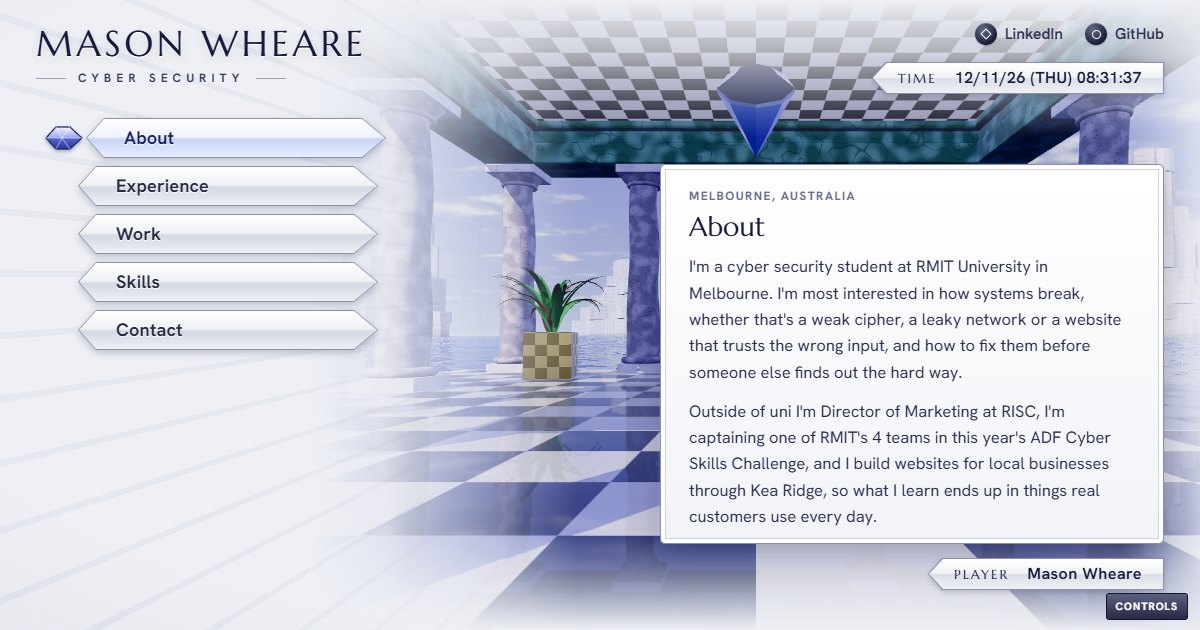
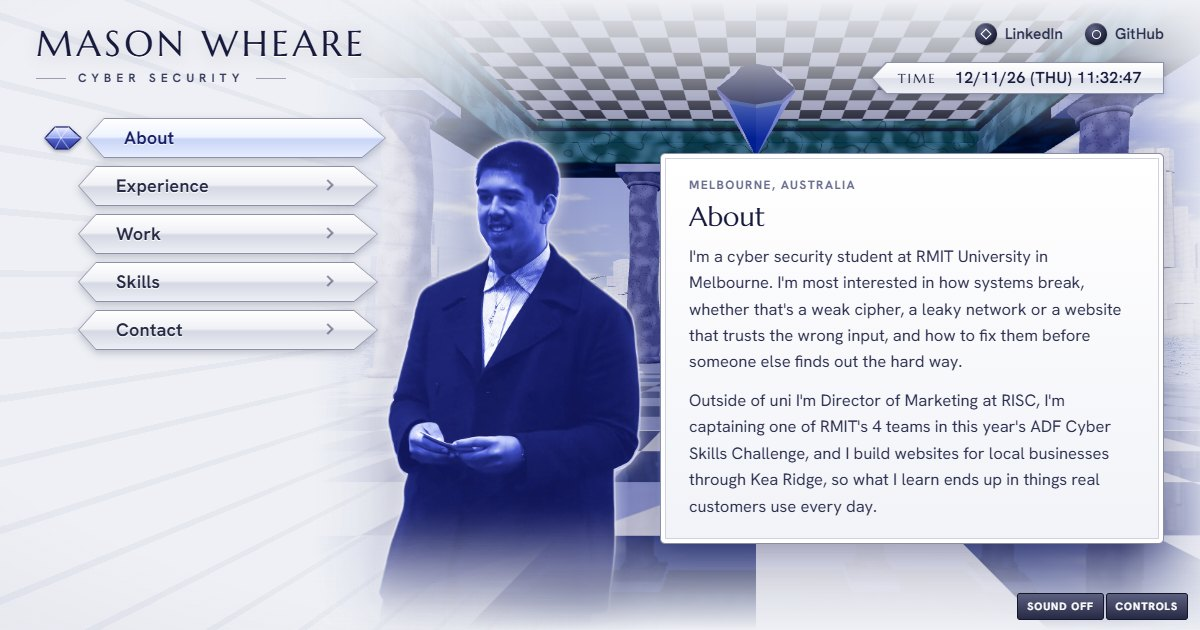
Deploy: character art, PLAYER strip removed

diff --git a/assets/index-D4C5VGGb.css b/assets/index-D4C5VGGb.css
@@ -1,0 +1,1 @@
[1 lines of base64/hex data omitted]

diff --git a/index.html b/index.html
@@ -31,8 +31,8 @@
         "sameAs": ["https://www.linkedin.com/in/mason-wheare", "https://github.com/masonwgit"]
       }
     </script>
-    <script type="module" crossorigin src="/assets/index-DZmXmEzb.js"></script>
-    <link rel="stylesheet" crossorigin href="/assets/index-BE9Hevon.css">
+    <script type="module" crossorigin src="/assets/index-BggvlLXD.js"></script>
+    <link rel="stylesheet" crossorigin href="/assets/index-D4C5VGGb.css">
   </head>
   <body>
     <div class="screen">
@@ -54,6 +54,7 @@
       <div class="stage">
[1 lines of base64/hex data omitted]
         <canvas id="scene" role="img" aria-label="A live 3D render of a marble pavilion on a calm sea, with white cliffs in the distance"></canvas>
+        <img class="character" src="/character/mason.webp" width="802" height="1400" alt="Mason Wheare" decoding="async" />
       </div>
 
       <nav class="menu" aria-label="Main menu">
@@ -259,11 +260,6 @@
         </article>
         </div>
       </section>
-
-      <div class="strip strip--player">
-        <span class="strip__label">Player</span>
-        <span class="strip__value">Mason Wheare</span>
-      </div>
 
       <button class="corner corner--sound" type="button" data-sound aria-pressed="false">Sound off</button>
       <button class="corner" type="button" data-show="controls">Controls</button>
